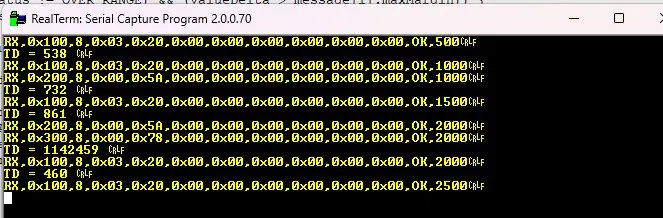
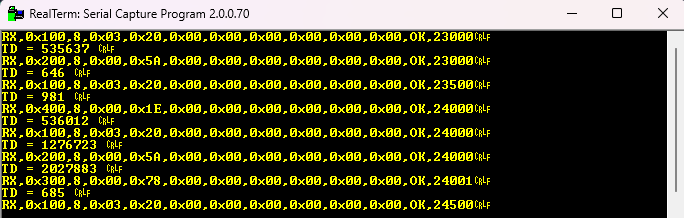
test(ids): test the ISR execution time using the onboard DWT counter >> >> - Set StartTime at the start of the ISR and set StopTime at the end of the ISR right before the return. >> - Find the maximum ISR timer value for every ISR to find the worst case execution time >> - Remove the setup for detec

diff --git a/Drivers/can.c b/Drivers/can.c
@@ -6,6 +6,8 @@
 #include "systick.h"
 #include "msp432e401y.h"
 
+volatile uint32_t maxISRCycles = 0;
+
 void CAN_Message_Table_Init(volatile Msg* msg) {
 
         //Populating the simulated ENGINE RPM Message object
@@ -215,6 +217,7 @@ void CAN1_Init(void) {
 //Setting up CAN1 Interrupt Service Routine to receive and pass the message object forward
 void CAN1_IRQHandler(void) {
 		
+		StartTime = DWT->CYCCNT; //Find the start time of the ISR
 		uint32_t messageObject = CAN1_INT_R & CAN_INT_INTID_M; //extracts object number
 	
 		if (messageObject == 0x8000) {
@@ -240,9 +243,6 @@ void CAN1_IRQHandler(void) {
 				while ((CAN1_IF2CRQ_R & CAN_IF2CRQ_BUSY) != 0) {} //polls until BUSY clears
 			
 				uint32_t index = messageObject - 1; //Extracts the object number into a variable (index friendly)
-					
-				//frame received - Start the timer
-				message[index].StartTime = DWT->CYCCNT; //Read the timer value
 
 				message[index].canID = (CAN1_IF2ARB2_R >> 2) & 0x7FF; //get the message ID and save it to the struct field
 				message[index].DLC = CAN1_IF2MCTL_R & 0x0000000F; //extract the first 4 bits of the MCTL register to get the DLC (Data length code) - Supposed to be 8 bytes based on the transmit function
@@ -271,13 +271,18 @@ void CAN1_IRQHandler(void) {
 				}
 					
 				InterruptFlag |= (1 << index); //sets the specific bit of the bitmask to show which index to use in main
-				
-				//frame given to main
-				StopTime = DWT->CYCCNT; //read the end timer value. This focuses on either OVER_RANGE or UNKNOWN_ID if they are set as the status
 								
 				messageObject = CAN1_INT_R & CAN_INT_INTID_M;
 	
 			}
+		}
+		
+		StopTime = DWT->CYCCNT; //Find the end time for ISR
+		
+		TimeDifference = StopTime - StartTime;
+		
+		if (TimeDifference > maxISRCycles) {
+			maxISRCycles = TimeDifference;
 		}
 		
 		return;

diff --git a/Drivers/can.h b/Drivers/can.h
@@ -35,7 +35,6 @@ typedef struct {
 	uint32_t arrivalFlag; //This flag is checked before timing checks. If the flag is zero, it means that this was the first arrival and the too fast/too slow does not matter
 	uint32_t lastValue; //This is used to track the last transmission value and use it to compare with the current frame to check for spikes
 	uint32_t maxMargin; //This is the maximum difference between the current and last transmission value. It is used to see if the difference is big enough to declare it a spike
-	uint32_t StartTime; //used for the start time (measuring time difference)
 } Msg;
 
 typedef enum {
@@ -50,6 +49,9 @@ volatile extern uint32_t InterruptFlag; //This will be used as a bitmask -> 0x00
 
 volatile extern uint32_t StopTime; //used for the stop time (measuring time difference)
 volatile extern uint32_t TimeDifference; 
+volatile extern uint32_t StartTime;
+
+volatile extern uint32_t maxISRCycles; //used for maximum cycle count for the ISR (for ISR execution time)
 
 void CAN0_Init(void);
 void CAN1_Init(void);

diff --git a/Core/main.c b/Core/main.c
@@ -14,10 +14,11 @@
 volatile uint32_t InterruptFlag = 0;
 volatile Msg message[NUMBER_OF_EVENTS + 1];
 
+volatile uint32_t RXFlag = 0;
+
+volatile uint32_t StartTime = 0;
 volatile uint32_t StopTime = 0;
 volatile uint32_t TimeDifference = 0;
-
-volatile uint32_t RXFlag = 0;
 
 char data;
 
@@ -108,11 +109,8 @@ int main(void) {
 					
 					message[i].lastArrived = ticks;
 					
-					//Stop the timer since the status has been finalised
-					StopTime = DWT->CYCCNT; //Find the StopTime responsible for either SPIKE or TOO_FAST
-					TimeDifference = StopTime - message[i].StartTime;
 					UART_printf("TD = ");
-					UART_numeric_print(TimeDifference);
+					UART_numeric_print(maxISRCycles);
 					
 					Message_Object_UART_Print(0, &message[i]); 
 					

diff --git a/README.md b/README.md
@@ -216,7 +216,6 @@ Using this counter, to find the current time, one must execute the command `Time
 **Results:** 
 
 ![](./images/image-10.png)
-![](./images/image-11.png)
 
 
 | Condition | Latency (cycles) | Latency |
@@ -228,7 +227,28 @@ Using this counter, to find the current time, one must execute the command `Time
 
 **Takeaways:** This is the quantitative proof of the IDS detection and classification system. The detection itself is in microseconds, and the millisecond tail is the cost of handling multiple frames. Something I realized from this is the observer effect. By putting out these timers and uart print statements for latency, I am essentially increasing the latency. 
 
-**ISR Execution Time:**
+## Performance — ISR Execution Time
+
+**Measurement:** Duration of the CAN1 receive interrupt handler. It fills up `StartTime` at the start of the function before anything happens. It fills up `StopTime` before the return statement and after the while loop ends. This shows us how long the core spends in the `CAN1_IRQHandler` per invocation. While the interrupt runs, everything else is paused so now we know how much time this costs us. 
+
+**What I used:** Same DWT Cycle Counter as before
+
+After the time difference is calculated inside the ISR, it is compared with a variable `maxISRCycles`. If the current delta is bigger than the max, set the max to the current delta. This is then sent on to main for printing. 
+
+**Results:**
+
+![alt text](./images/image-11.png)
+
+| Measure | Cycles | Time |
+|---|---|---|
+| Typical (single object)              | ~304 | ~2.53 µs |
+| Measured max (single object, bus load) | ~340 | ~2.83 µs |
+
+From 304, it goes to 336 for a bit, then becomes stable at 340. The small difference here could be due to the `BUSY` poll on the IF2 transfer. 
+
+The drain loop never engages. The handler is built to drain all pending messages in a loop. So, the worst case with N objects in one invocation never happens. 2 or more objects dont invocate the IRQ at the same time which I assumed it would. The ISR always runs for that ONE call. A frame at 500kbps takes the bus for about 250us. The handler runs in approx. 2.5us. So, the frames are 100x further apart than the handler. By the time the second frame finished arriving, the first one's ISR is long done. Every interrupt processes exactly one object. What I expected here for worst case was 4 message objects x 340 cycles per ISR = 11us. This is never observed. 
+
+**Takeaways:** The ISR stays short by design. Captures the frame, sets a flag, leaves. A 2.83us worst case against the fastest message period (RPM, 500ms) is a decent ISR runtime. This matters for a real-time argument
 
 **CPU Headroom:**
 
